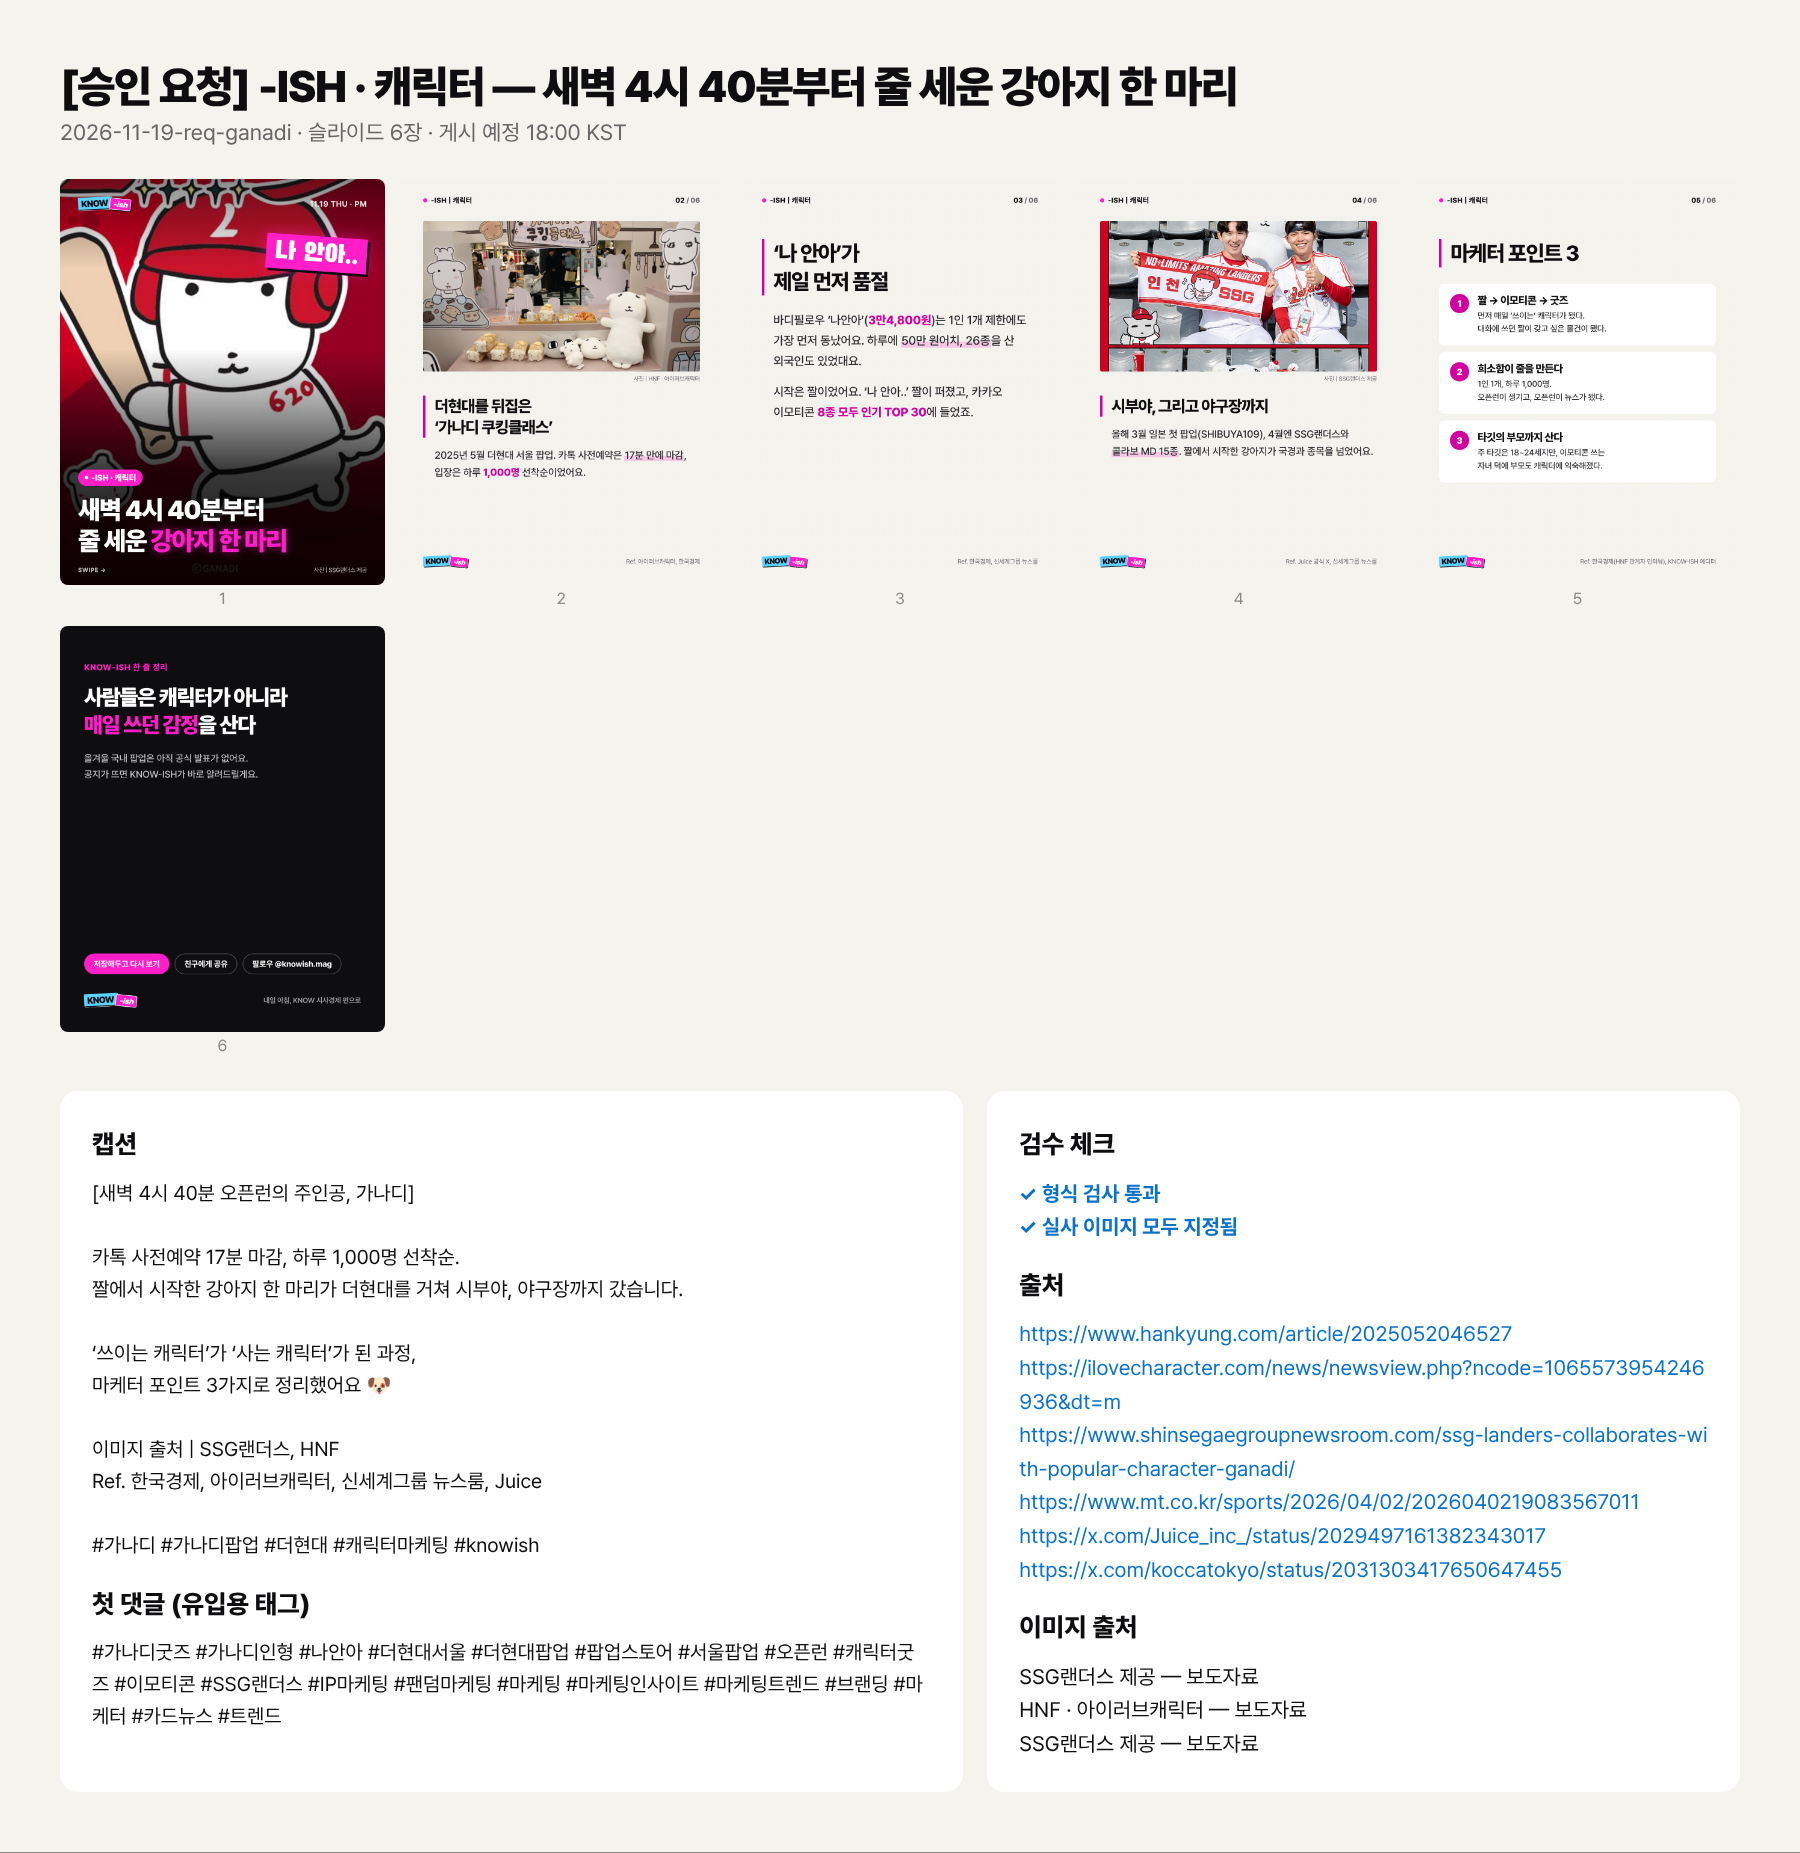
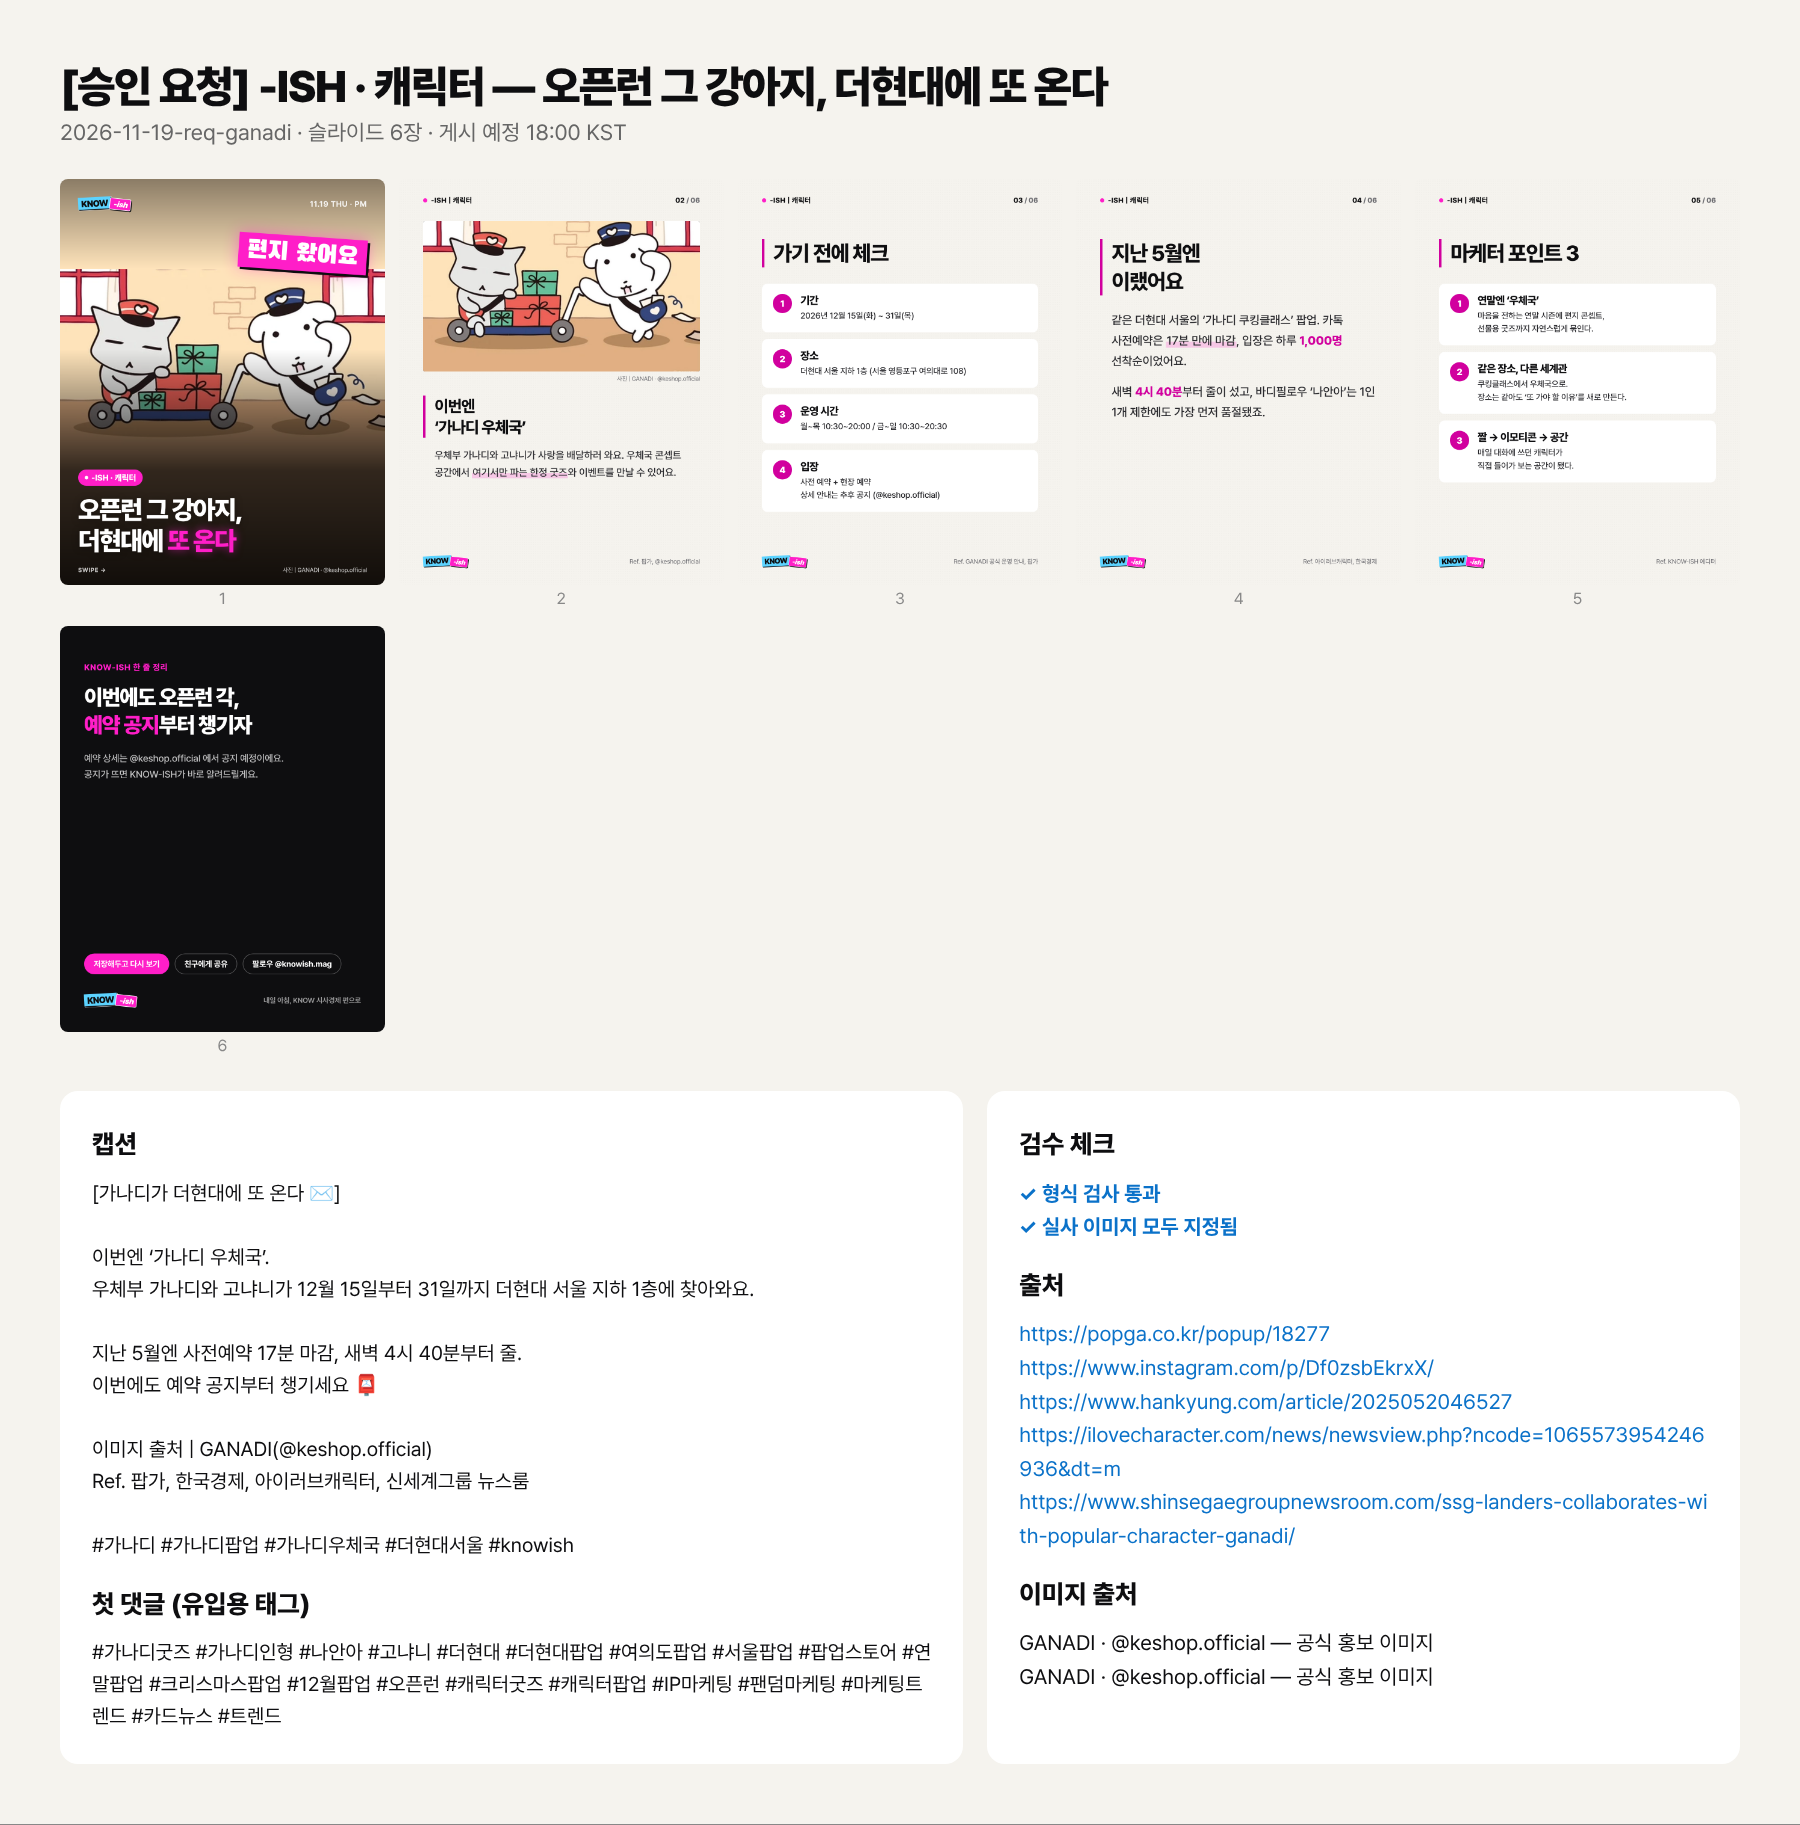
가나디 게시물 재작성: 가나디 우체국 팝업(12/15~31, 더현대 서울 B1) 공식 정보 반영
Claude-Session: https://claude.ai/code/session_019qCDgtKUUxWTJuWU3cPXKC

diff --git a/onoff/posts/2026-11-19-req-ganadi/review.md b/onoff/posts/2026-11-19-req-ganadi/review.md
@@ -6,36 +6,34 @@
 
 ## 캡션
 ```
-[새벽 4시 40분 오픈런의 주인공, 가나디]
+[가나디가 더현대에 또 온다 ✉]
 
-카톡 사전예약 17분 마감, 하루 1,000명 선착순.
-짤에서 시작한 강아지 한 마리가 더현대를 거쳐 시부야, 야구장까지 갔습니다.
+이번엔 ‘가나디 우체국’.
+우체부 가나디와 고냐니가 12월 15일부터 31일까지 더현대 서울 지하 1층에 찾아와요.
 
-‘쓰이는 캐릭터’가 ‘사는 캐릭터’가 된 과정,
-마케터 포인트 3가지로 정리했어요 🐶
+지난 5월엔 사전예약 17분 마감, 새벽 4시 40분부터 줄.
+이번에도 예약 공지부터 챙기세요 📮
 
-이미지 출처 | SSG랜더스, HNF
-Ref. 한국경제, 아이러브캐릭터, 신세계그룹 뉴스룸, Juice
+이미지 출처 | GANADI(@keshop.official)
+Ref. 팝가, 한국경제, 아이러브캐릭터, 신세계그룹 뉴스룸
 
-#가나디 #가나디팝업 #더현대 #캐릭터마케팅 #knowish
+#가나디 #가나디팝업 #가나디우체국 #더현대서울 #knowish
 ```
 
 ## 첫 댓글 (유입용 태그)
 ```
-#가나디굿즈 #가나디인형 #나안아 #더현대서울 #더현대팝업 #팝업스토어 #서울팝업 #오픈런 #캐릭터굿즈 #이모티콘 #SSG랜더스 #IP마케팅 #팬덤마케팅 #마케팅 #마케팅인사이트 #마케팅트렌드 #브랜딩 #마케터 #카드뉴스 #트렌드
+#가나디굿즈 #가나디인형 #나안아 #고냐니 #더현대 #더현대팝업 #여의도팝업 #서울팝업 #팝업스토어 #연말팝업 #크리스마스팝업 #12월팝업 #오픈런 #캐릭터굿즈 #캐릭터팝업 #IP마케팅 #팬덤마케팅 #마케팅트렌드 #카드뉴스 #트렌드
 ```
 
 ## 출처
+- https://popga.co.kr/popup/18277
+- https://www.instagram.com/p/Df0zsbEkrxX/
 - https://www.hankyung.com/article/2025052046527
 - https://ilovecharacter.com/news/newsview.php?ncode=1065573954246936&dt=m
 - https://www.shinsegaegroupnewsroom.com/ssg-landers-collaborates-with-popular-character-ganadi/
-- https://www.mt.co.kr/sports/2026/04/02/2026040219083567011
-- https://x.com/Juice_inc_/status/2029497161382343017
-- https://x.com/koccatokyo/status/2031303417650647455
 
 ## 이미지
-- SSG랜더스 제공 · 보도자료
-- HNF · 아이러브캐릭터 · 보도자료
-- SSG랜더스 제공 · 보도자료
+- GANADI · @keshop.official · 공식 홍보 이미지
+- GANADI · @keshop.official · 공식 홍보 이미지
 
 승인하려면 이 세션에 **"승인"**, 수정하려면 바꿀 내용을 적어주세요.
